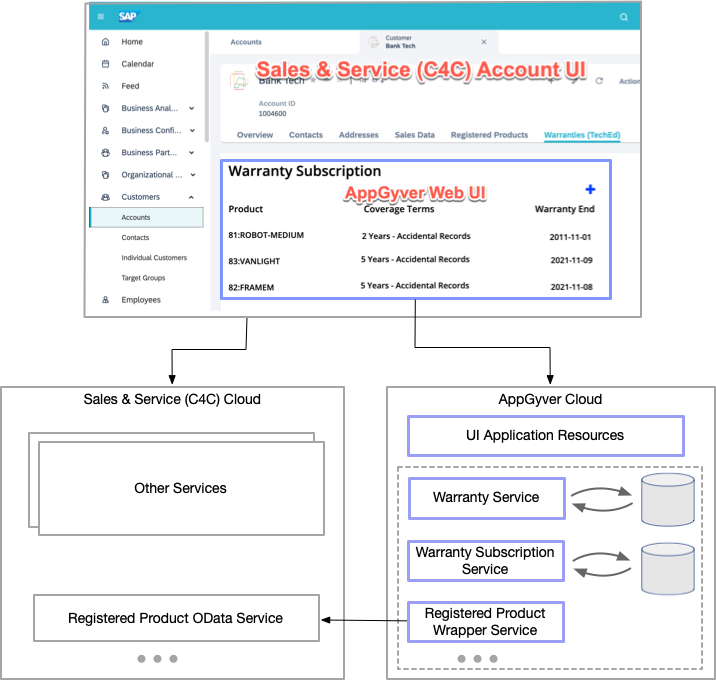
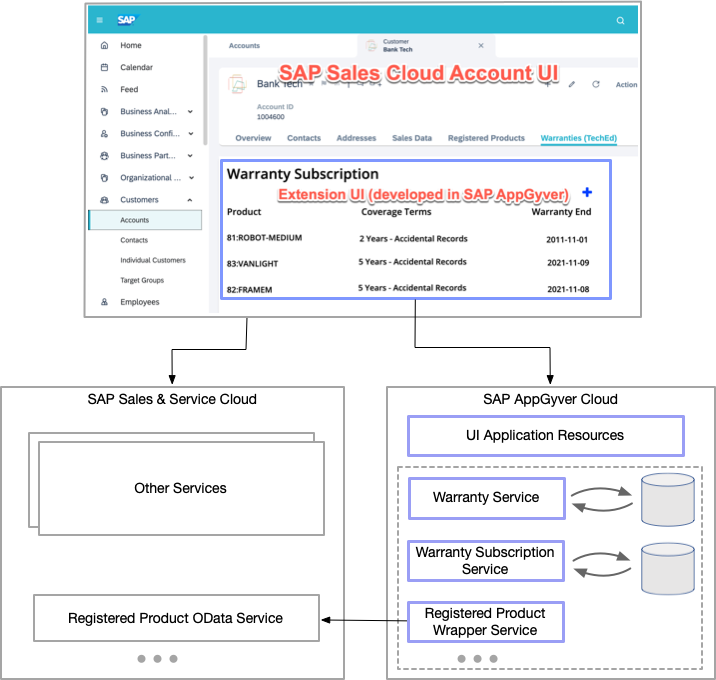
terminology changes

diff --git a/exercises/ex1/README.md b/exercises/ex1/README.md
@@ -3,15 +3,15 @@
 In this exercise we will build backend services with the **SAP AppGyver**. We will build three services:
 
 - To store and read the warranty information
-- To read registered products data from C4C
-- To create and read warranty subscription information for given C4C account and registered product
+- To read registered products data from SAP Sales Cloud
+- To create and read warranty subscription information for given account and registered product
 
 After completion of this exercise, you would be familiar with
 
 - Create backend project
 - Creating database tables
 - Perform CRUD operations on them using REST API
-- Consuming external REST endpoints (like C4C OData API)
+- Consuming external REST endpoints (like Sales Cloud OData API)
 - Deploying and testing the service
 
 ## Exercise 1.1 Opening a backend project
@@ -92,9 +92,9 @@ In the above section we have already created the database tables (Warranties) wi
 
   <br>![](/exercises/ex1/images/01_12_10_Test.png)
 
-## Exercise 1.3 Consuming a C4C API in the SAP AppGyver backend
+## Exercise 1.3 Consuming a SAP Sales Cloud API in the SAP AppGyver backend
 
-  In the next step we need to implement an API to create, read, update and delete warranty description. However, before that we need an API to read registered products. We will read the registered producs from C4C system. However, we can't use the C4C API directly in a AppGyver UI application directly due to CORS (Cross Origin Resource Sharing) issue. So, we need to wrap the C4C APi inside a AppGyver backend API. In this section we will do the same.
+  In the next step we need to implement an API to create, read, update and delete warranty description. However, before that we need an API to read registered products. We will read the registered producs from the SAP Sales Cloud system. However, we can't use the SAP Sales Cloud API directly in a AppGyver UI application directly due to CORS (Cross Origin Resource Sharing) issue. So, we need to wrap the SAP Sales Cloud API inside a AppGyver backend API. In this section we will do the same.
 
 1. Click BACK from left side menu and navigate to the EXTERNAL RESOURCES section to create a new OData Resource:
 
@@ -104,7 +104,7 @@ In the above section we have already created the database tables (Warranties) wi
 
   <br>![](/exercises/ex1/images/01_13_01_ODataResource.png)
 
-2. Add following configuration to do discover available resources from C4C API
+2. Add following configuration to do discover available resources from SAP Sales Cloud API
   - Choose `Basic Authentication`
   - Username `DISPLAY`
   - Password `ReadMe`
@@ -320,7 +320,7 @@ In the Exercise 1.2 we have already create a table to store Warranties and imple
 
 ## Summary
 
-In this section we have created three backend service APIs that will be used to build the user interface in the next section. We have built APIs based on the local storage as well as created wrapper API by consuming an external API (C4C Registered Product).
+In this section we have created three backend service APIs that will be used to build the user interface in the next section. We have built APIs based on the local storage as well as created wrapper API by consuming an external API (SAP Sales Cloud Registered Product).
 
 Continue to - [Exercise 2 - Building the UI with the SAP AppGyver Composer](../ex2/README.md)
 

diff --git a/exercises/ex0/README.md b/exercises/ex0/README.md
@@ -4,20 +4,21 @@ In this exercise, you will get the overview of the scenario that we are going to
 
 ## Scenario
 
-We will create an extension application for the SAP Sales & Service Cloud (also referred as C4C) that will provide creation and listing of simple warranty objects for a given account and its registered products. The application will be developed in the SAP AppGyver and embedded in the Sales & Service Account screen as a mashup. This will provide user to:
-- See all the warranties created for an account in the C4C screen.
+We will create an extension application for the **SAP Sales Cloud** that will provide creation and listing of simple warranty objects for a given account and its registered products. The application will be developed in the **SAP AppGyver** and embedded in the Account screen of **SAP Sales Cloud** as a mashup. This will provide user to:
+- See all the warranties created for an account.
 - Create warranties for the registered products for the account.
 
-Note that the intenstion of this workshop is to show the techincal capbilities not on the scenario itself. 
+Note that the intention of this workshop is to show the technical capabilities not the end product itself. 
+
 ## Techincal overview
 
 The following diagram gives the overview of different components and services involved. The pieces that we develop in this workshop is marked with light blue border:
 <br>![](/exercises/ex0/images/00_01_Overview.png)
  
 The application comprises of three major parts:
-- Backend service that persists the data and implements backend logic. It allows us to fetch data from **SAP Sales and Service Cloud** and expose it via REST API. This is done in the **SAP AppGyver Cloud Integrations** builder
+- Backend service that persists the data and implements backend logic. It allows us to fetch data from **SAP Sales Cloud** and expose it via REST API. This is done in the **SAP AppGyver Cloud Integrations** builder
 - Frontend to create the user interface (web application) using the service interfaces created in the previous step. This is done using **SAP AppGyver Composer**
-- Integrating the web-app created in the previous step to **SAP Sales and Service Cloud**
+- Integrating the web-app created in the previous step to **SAP Sales Cloud**
 
 ## Systems - User Selection & Login
 
@@ -28,8 +29,8 @@ In this step you will familiarise yourself with the systems that will be used in
   - You'll also get an email with credentials
   - These credentials will be valid until 16th December 2021.  If you wish to continue experimenting after that you are encouraged to sign-up for Free SAP AppGyver account from https://www.appgyver.com
 
-2.	SAP Sales & Service (C4C) system and user
-  - Note that we will need C4C system only to access the data via API. The UI integration steps are performed by the instructor.
+2.	SAP Sales Cloud system and user
+  - Note that we will need SAP Sales Cloud system only to access the data via API. The UI integration steps are performed by the instructor.
   - System: https://my356925.crm.ondemand.com/
   - User/password: `DISPLAY` / `ReadMe`
 

diff --git a/exercises/ex3/README.md b/exercises/ex3/README.md
@@ -1,14 +1,14 @@
-# Exercise 3 - Emebedding the Web Application in C4C
+# Exercise 3 - Emebedding the Web Application in the SAP Sales Cloud
 
-In this exercise, we will will embed the webapp that was created in the previous step inside the Account Detail screen of C4C. This exercise consists of mainly two parts:
+In this exercise, we will will embed the webapp that was created in the previous step inside the Account Detail screen of SAP Sales Cloud. This exercise consists of mainly two parts:
 - Creating a mashup configuration that stores information about the webapp like url and parameters.
 - Emebedding the mashup object into the Agent Desk application.  
 
-## Exercise 3.1 Create a Mashup object in the C4C
+## Exercise 3.1 Create a Mashup object in the SAP Sales Cloud
 
 In this section we will create a mashup object using the webapp url that we have created in the excecise 2.  
 
-1. Login to the C4C and navigate to the Mashup Authoring screen
+1. Login to the SAP Sales Cloud and navigate to the Mashup Authoring screen
   - Create an HTML mashup as shown below:
  <br>![](/exercises/ex3/images/03_01_01_CreateMashup.png)
 

diff --git a/exercises/ex2/README.md b/exercises/ex2/README.md
@@ -409,7 +409,7 @@ Finally we can build and distribute our project. Preview Portal URL that we used
 
 ## Summary
 
-You've now implemented the frontend application and got the final url that will be used to mashup the application inside C4C.
+You've now implemented the frontend application and got the final url that will be used to mashup the application inside SAP Sales Cloud.
 
 The application url will look like this:
 `http://<unique name given>.wsapps.testgyver.com/?AccountID=1000000`. It accepts one query parameter called `AccountID`.
